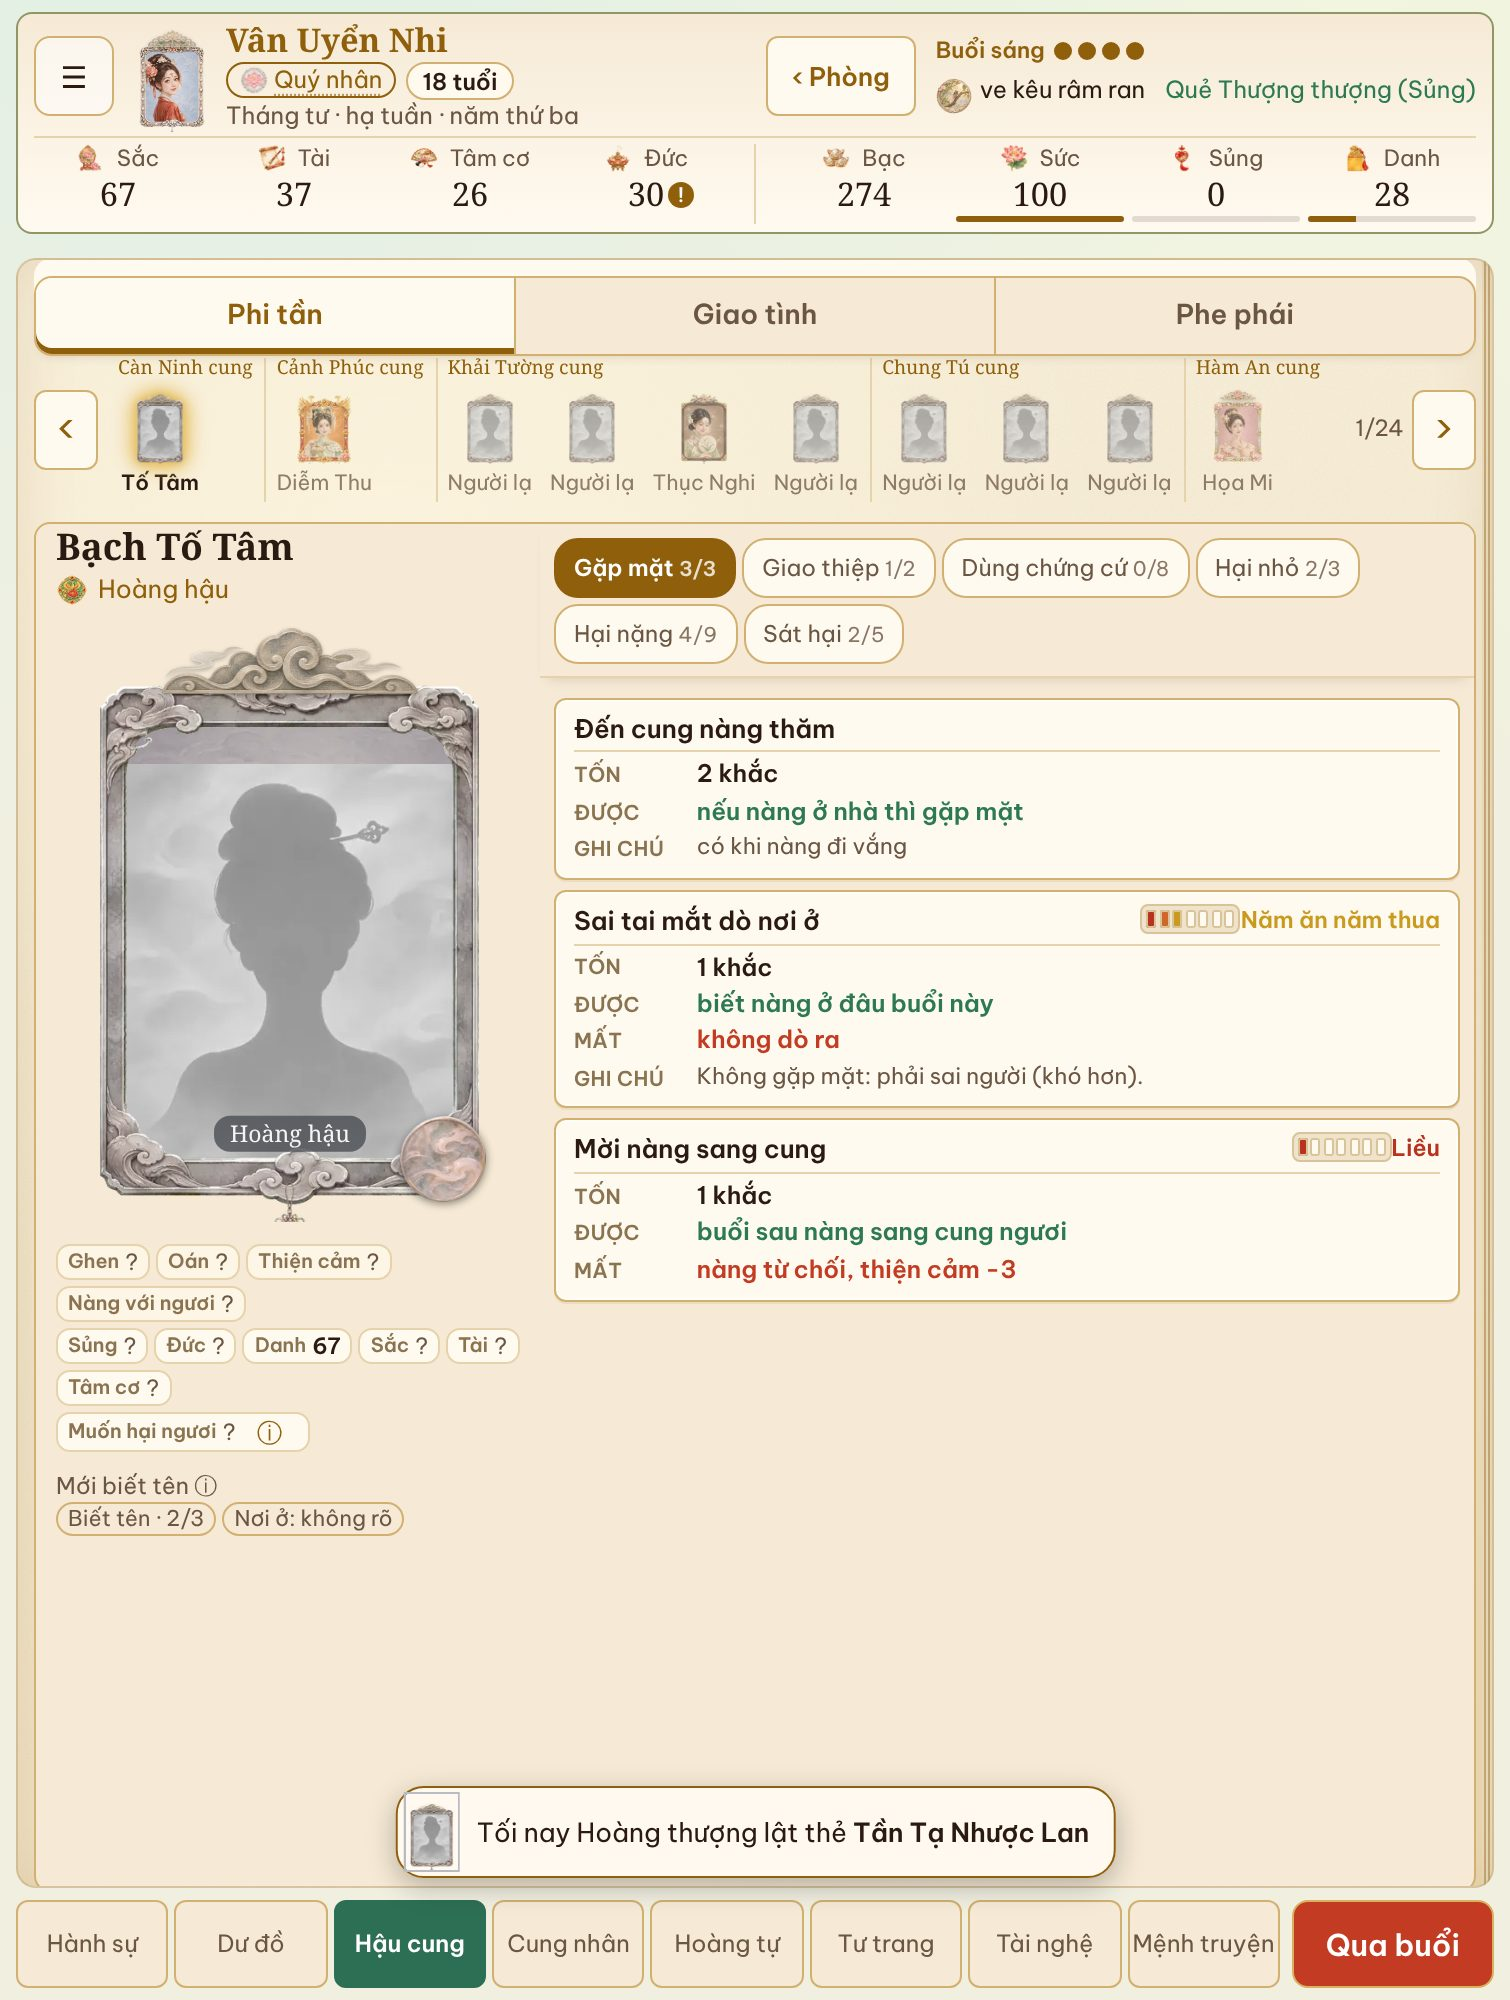
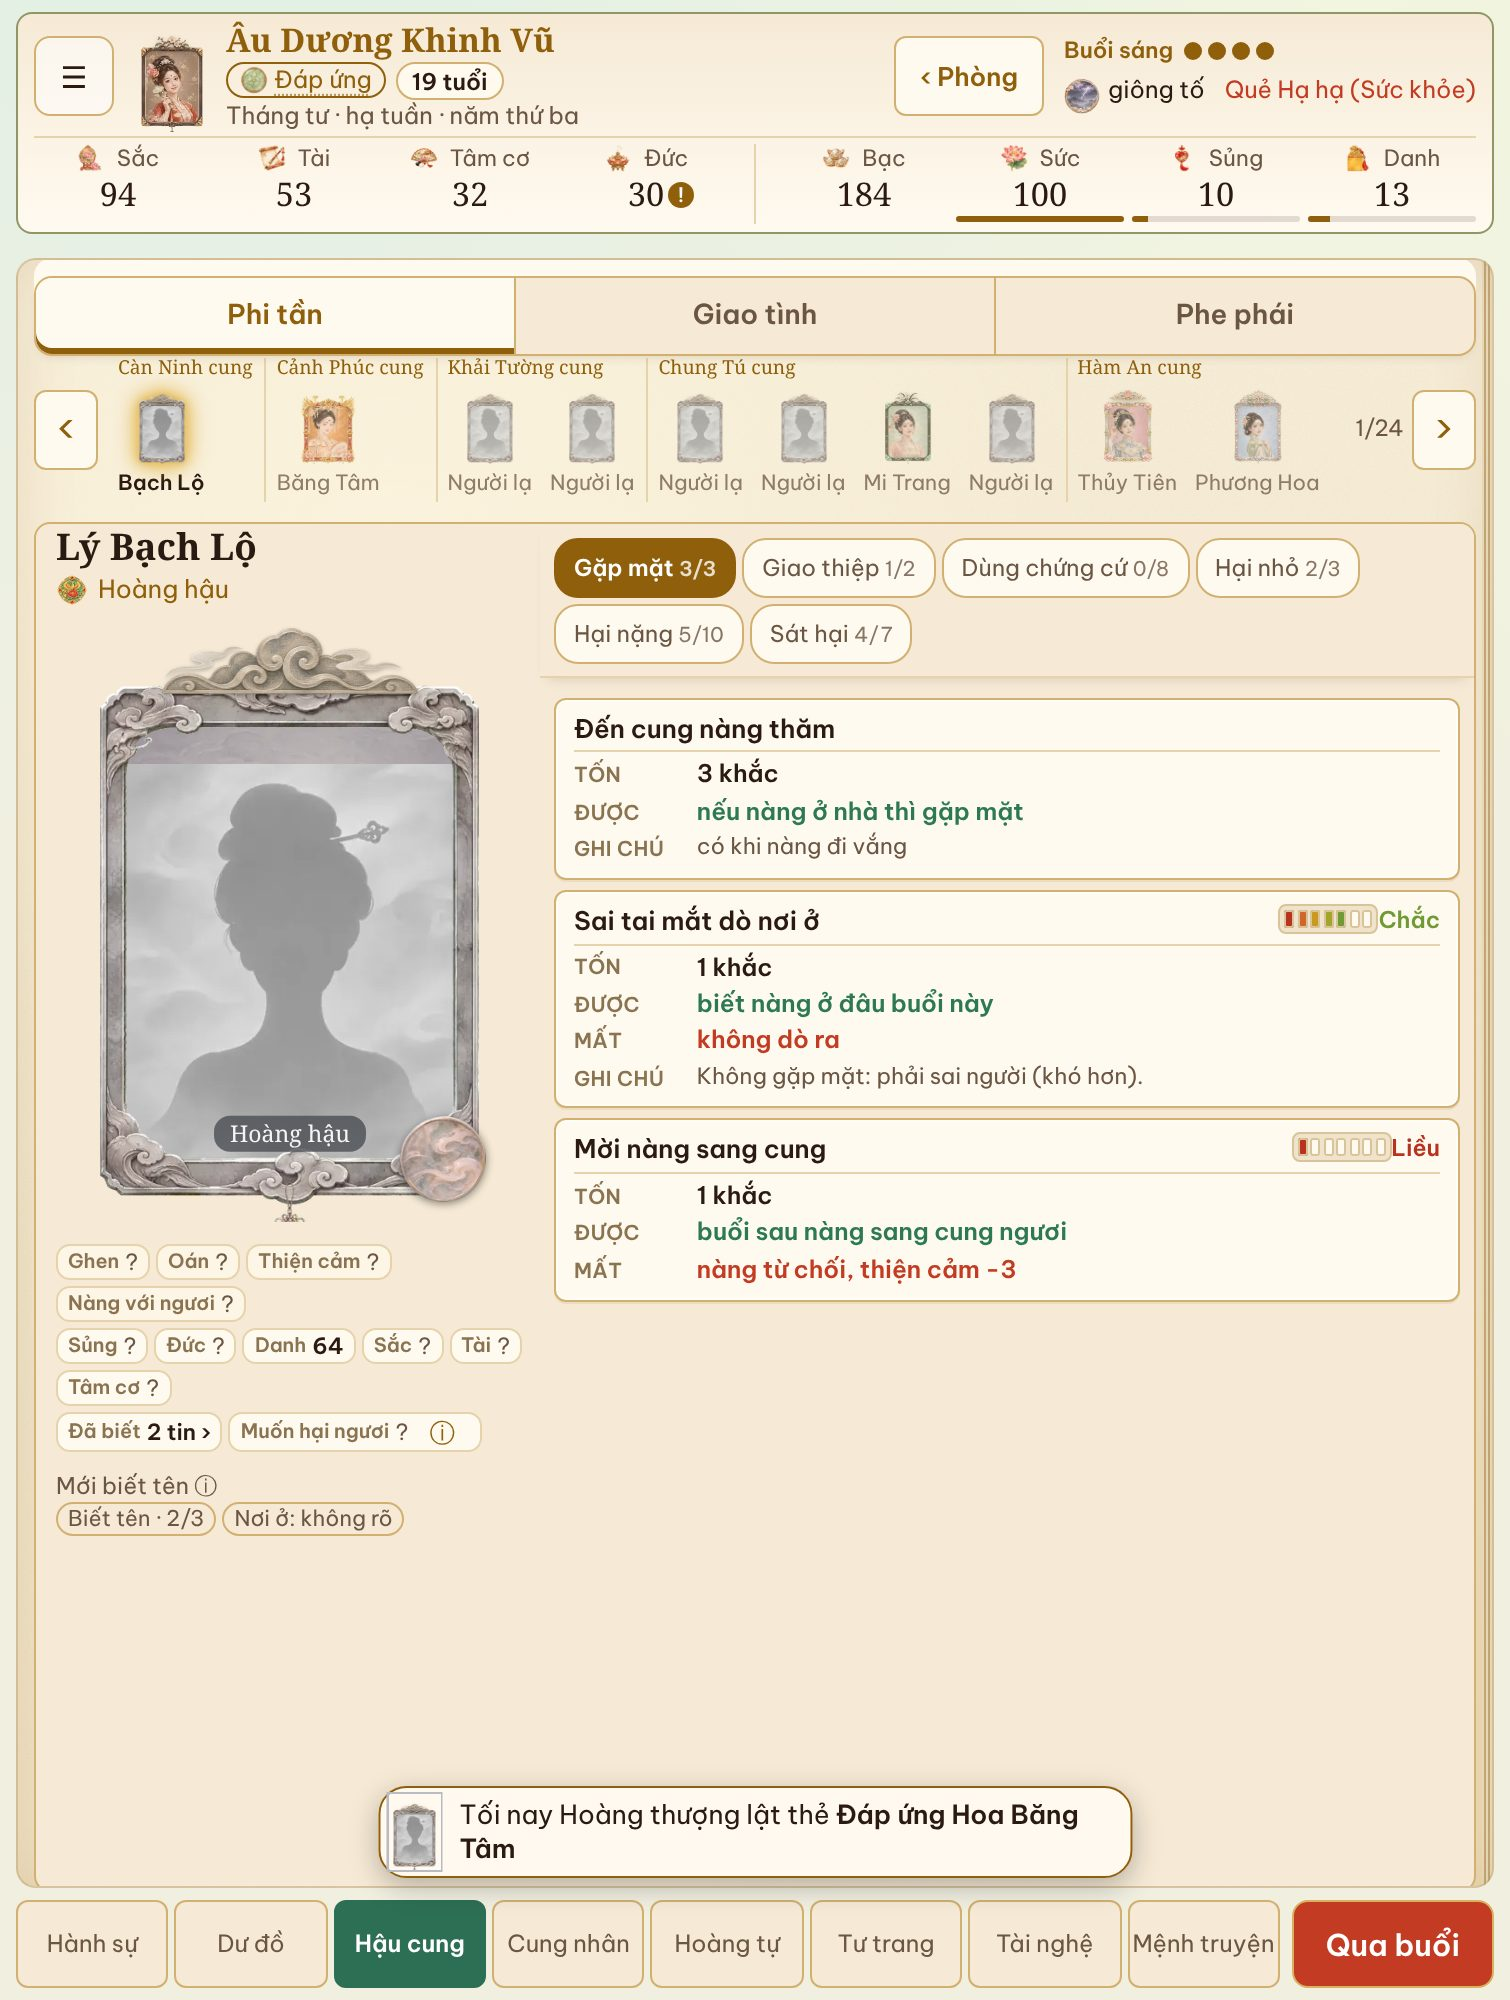
Hết khắc ở một nơi: vẫn tự sang buổi nhưng ngươi Ở LẠI nơi đó (không bị đẩy về nhà/Dư đồ) — buổi mới vào lại chỗ cũ không hỏi cửa, dòng "Sang buổi tối · ngươi vẫn ở Kính sự phòng"; chỉ dời khi có lý do thật (cấm túc, lãnh cung, đêm) kèm dòng lý do. Chạm nơi đang ở trên Dư đồ mở sân khấu nơi đó (Fold
Kiểm: dev/test/place-stay.js (Fold 755x1000, iPad 1180x820), dev/test/court-rules.js.

Claude-Session: https://claude.ai/code/session_01V1ZZH1F24tkuejhCvtXqV8

diff --git a/dev/test/place-stay.js b/dev/test/place-stay.js
@@ -1,0 +1,36 @@
+/* place-stay test (owner 11/15 06:35Z–06:45Z): when the khắc run out at a place the buổi turns over but she STAYS there.
+   A: afternoon, last khắc spent walking to Kính sự phòng (3 people put there) → arrival stage → evening still at Kính sự phòng, note line.
+   B: at Ngự hoa viên, a normal act takes the last khắc → next buổi still at Ngự hoa viên.
+   C: Dư đồ → tap the place she is at → its stage (phone shell room view), "‹ <place>" button label, the button returns to that stage.
+   usage: node dev/test/place-stay.js <url of a build at the site root> <W>x<H>@dpr <outdir> <tag> */
+const {chromium}=require('playwright');
+const [,,URL,SZ,OUT,TAG]=process.argv;const [WH,DPR]=SZ.split('@');const [W,H]=WH.split('x').map(Number);
+(async()=>{const b=await chromium.launch();const ctx=await b.newContext({viewport:{width:W,height:H},hasTouch:true,isMobile:W<1100,deviceScaleFactor:+(DPR||1),reducedMotion:'reduce',serviceWorkers:'block'});
+ const p=await ctx.newPage();p.setDefaultTimeout(300000);const errs=[];p.on('pageerror',e=>errs.push(e.message.slice(0,200)));
+ await p.goto(URL,{waitUntil:'domcontentloaded'});await p.waitForFunction(()=>typeof start==='function'&&typeof showModal==='function');await p.waitForTimeout(2500);
+ const clean=()=>p.evaluate(()=>{['kload','kroul','dawn'].forEach(i=>{const e=document.getElementById(i);if(e)e.remove()})});
+ const shot=async n=>{await clean();for(let t=0;t<3;t++){try{await p.screenshot({path:`${OUT}/${TAG}-${n}.jpg`,type:'jpeg',quality:82,timeout:120000});return}catch(e){await p.waitForTimeout(3000)}}};
+ const st=()=>p.evaluate(()=>({buoi:S.buoi,used,place:S.place,visitK:S.visit&&S.visit.k,people:(S.visit&&S.visit.people||[]).map(x=>x.name||x.kind).slice(0,6),msg:(S.visit&&S.visit.msg||"").replace(/<[^>]+>/g,"").slice(0,160),
+  tab,home:document.querySelector(".game").classList.contains("k3home"),room:(document.getElementById('k3room')||{}).textContent||"",roomHidden:(document.getElementById('k3room')||{}).hidden,modal:!document.getElementById('modal').hidden?document.getElementById('mt').textContent:""}));
+ const R={};
+ await p.evaluate(()=>{try{localStorage.clear()}catch(e){}SLOT=3;document.getElementById('title').hidden=true;for(let i=0;i<60;i++){start();if(!isSrv())break}Q.length=0;document.getElementById('modal').hidden=true;try{NLP=null}catch(e){}render()});
+ await clean();await p.waitForTimeout(1200);
+ /* A */
+ R.A0=await p.evaluate(()=>{S.week=S.week;S.buoi=1;S.place="home";S.visit={k:"home",people:homePeople(),talked:false,tk:{}};S.confined=0;S.out=0;const tc=travel("home","ksp");used=4-tc;
+  const L=liveRivals(false).filter(v=>v.alive&&!v.out&&!v.confined).slice(0,3);L.forEach(v=>S.where[v.id]="ksp");tab="go";render();
+  const a=accessOf(S,"ksp");j77Tap("ksp");return{tc,acc:a.ok,why:a.why||"",card:document.getElementById('mt').textContent,names:L.map(v=>v.name)}});
+ await p.waitForTimeout(1200);await shot('A1-card');
+ await p.evaluate(()=>{if(Q[0]&&Q[0].opts){const i=Q[0].opts.findIndex(o=>o.n==="Đi");if(i>=0)chooseM(i)}});await p.waitForTimeout(500);
+ R.A1=await st();await shot('A2-arrive');
+ await p.waitForTimeout(4500);R.A2=await st();await shot('A3-evening');
+ /* B */
+ await p.evaluate(()=>{Q.length=0;document.getElementById('modal').hidden=true;S.buoi=0;used=0;S.place="home";S.visit={k:"home",people:homePeople(),talked:false,tk:{}};tab="go";render();goTo("vuon")});await p.waitForTimeout(1500);
+ await p.evaluate(()=>{Q.length=0;document.getElementById('modal').hidden=true;render()});
+ R.B0=await st();await p.evaluate(()=>{used=3;spend(1);render()});await p.waitForTimeout(4500);await p.evaluate(()=>{if(Q.length){Q.length=0;document.getElementById('modal').hidden=true;render()}});R.B1=await st();await shot('B-next-buoi');
+ /* C */
+ await p.evaluate(()=>{const b=document.querySelector('#tabs [data-tab="go"]');if(b)b.click();else{tab="go";render()}});await p.waitForTimeout(1500);R.C0=await st();await shot('C0-map');
+ await p.evaluate(()=>{j77Tap(S.place)});await p.waitForTimeout(1500);R.C1=await st();await shot('C1-tap-here');
+ await p.evaluate(()=>{const b=document.querySelector('#tabs [data-tab="act"]');if(b)b.click()});await p.waitForTimeout(1200);R.C2=await st();await shot('C2-panel');
+ await p.evaluate(()=>{const b=document.getElementById('k3room');if(b&&!b.hidden)b.click()});await p.waitForTimeout(1200);R.C3=await st();await shot('C3-back');
+ R.hovf=await p.evaluate(()=>document.documentElement.scrollWidth>innerWidth+1);
+ console.log(JSON.stringify({TAG,R,errs},null,0));await b.close()})().catch(e=>{console.error(e);process.exit(1)});

diff --git a/dev/build/j41.js b/dev/build/j41.js
@@ -61,7 +61,7 @@ document.addEventListener("click",e=>{const s=e.target.closest("[data-acsneak]")
  const i=e.target.closest("[data-acinfo]");if(i){e.preventDefault();e.stopImmediatePropagation();accInfo();return}
  const g=e.target.closest(".agrey");if(g){e.preventDefault();e.stopImmediatePropagation()}},true);
 /* the gate on goTo: barred places are never entered silently; a tap from elsewhere shows the card with the ways in */
-(function(){const g0=goTo;goTo=function(k){if(!S||k===S.place||k==="home")return g0.apply(this,arguments);
+(function(){const g0=goTo;goTo=function(k){if(!S||k===S.place||k==="home"||window.__accStay)return g0.apply(this,arguments);
  const a=accessOf(S,k);if(!a.ok){if(S.place==="home"&&(!S.visit||S.visit.k!=="home"))S.visit={k:"home",people:homePeople(),talked:false,tk:{}};
   if(!window.__accSilent&&!S.dead&&!Q.length&&!S.out&&!S.confined){const st=accState(k);const opts=[];
    if(st.ask&&!st.empAway)opts.push({n:st.ask==="yk"?"Xin yết kiến":"Xin bái kiến",fx:{},x:accAskLine(k),go:()=>setTimeout(()=>accAsk(k),0)});
@@ -72,7 +72,11 @@ document.addEventListener("click",e=>{const s=e.target.closest("[data-acsneak]")
  try{if(k==="lc"&&S.place==="lc"&&prev!=="lc"&&!S.out){apply({danh:-2});log("Bị thấy lui tới Trường Môn viện: Danh -2.");if(S.visit)S.visit.msg=(S.visit.msg?S.visit.msg+" ":"")+"Có người thấy ngươi ở lãnh cung: Danh -2."}}catch(e){}
  return r}})();
 /* the new buổi re-enters her place quietly (a closed place sends her home without a card) */
-(function(){const n0=nextBuoi;nextBuoi=function(){window.__accSilent=1;try{return n0.apply(this,arguments)}finally{window.__accSilent=0}}})();
+/* owner 11/15 06:35Z: the new buổi starts AT her place (S.place stays) with the new occupants — the gate is not asked again (she is
+   already inside); only a real reason moves her (night / week end, cấm túc, lãnh cung, a summons), and then a line says why */
+(function(){const n0=nextBuoi;nextBuoi=function(){window.__accSilent=1;window.__accStay=1;const k=S&&S.place,b=S&&(S.buoi||0);try{return n0.apply(this,arguments)}finally{window.__accSilent=0;window.__accStay=0;
+ try{if(S&&!S.dead&&k&&k!=="home"&&b<2&&(S.buoi||0)===b+1&&S.place!==k&&S.visit){const why=S.out?"ngươi bị đày vào lãnh cung":S.confined?"ngươi đang bị cấm túc":"";
+  if(why){const nm=typeof accName==="function"?accName(k):k;S.visit.msg=(S.visit.msg?S.visit.msg+" ":"")+`Không ở lại ${nm} được: ${why}.`;log(`Rời ${nm}: ${why}.`);if(typeof render==="function")render()}}}catch(e){}}}})();
 /* a summons from the Thái hậu is a pass to Đức Thọ cung this buổi */
 (function(){const c0=chooseM;chooseM=function(i){try{const m=Q[0];if(m&&/triệu/i.test(m.t||"")&&m.opts&&m.opts[i]&&/^Đến/.test(m.opts[i].n)){if(/Thái hậu/.test(m.t))accGrant(S,"tn");if(/Hoàng thượng/.test(m.t)){accGrant(S,"dtd");accGrant(S,"thu")}if(/Hoàng hậu/.test(m.t))accGrant(S,"kn")}}catch(e){}return c0.apply(this,arguments)}})();
 /* NPC movement keeps the same rule: a consort barred from a place stays in her own palace */

diff --git a/dev/build/j77.js b/dev/build/j77.js
@@ -62,7 +62,7 @@ function j77Card(k,empty){if(!S||S.dead||Q.length)return;
  showModal()}
 /* a walk that uses the last khắc: say so plainly, then go (she sees who is there; next buổi she starts there) */
 function j77LastWalk(k,tc){let n=0;try{n=countAt(k)}catch(e){}
- Q.push({t:accName(k),h:`<p>Đường đi ${tc} khắc · đến nơi là hết buổi, chỉ kịp xem ai ở đó.</p>${n?`<p class="past">Có ${n} bóng người ở đó.</p>`:""}<p class="past">Buổi sau ngươi bắt đầu ở đó.</p>`,
+ Q.push({t:accName(k),h:`<p>Đường đi ${tc} khắc · đến nơi là hết khắc, sang buổi sau.</p>${n?`<p class="past">Có ${n} bóng người ở đó.</p>`:""}<p class="past">Ngươi ở lại đó: buổi sau bắt đầu ngay tại chỗ, thấy ai ở đó.</p>`,
   opts:[{n:"Đi",fx:{},x:`Chắc chắn · tốn: ${tc} khắc · thành: đến nơi, thấy ai ở đó; người ở đó có thể đến gần`,go:()=>setTimeout(()=>{if(S&&!S.dead&&!Q.length)goTo(k)},0)},{n:"Thôi",fx:{},x:""}]});showModal()}
 /* one tap rule for the map and the list */
 function j77Tap(k,empty){if(!S||S.dead||Q.length)return;if(empty||!k)return j77Card(k,empty||"Cung trống");
@@ -205,3 +205,9 @@ accInfo=function(){if(!S||Q.length)return;const R=n=>`<b>${n}</b>`;
  for(const v of rivals){if(!v.alive||v.out)continue;const k=W[v.id];if(!k||k==="home"||k[0]!=="r"||palaceOf(v)===k)continue;const h=accHost(k);
   if(!h||h===v||!h.alive||h.out||whereOf(h)!==k||rkOf(h)-rkOf(v)<C.rankGap)continue;
   if(roll(C.npcGreet))relAdd(v,h,C.okAff);else relAdd(v,h,accSkipAff(h,v))}}catch(e){}return r}})();
+
+/* owner 11/15 06:45Z: when the khắc run out the buổi still turns over by itself, but she STAYS where she is (j41 nextBuoi keeps
+   S.place): the stage of that place shows who is there in the new buổi, with one line "Sang buổi tối · ngươi vẫn ở Kính sự phòng" */
+(function(){const n0=nextBuoi;nextBuoi=function(){const k=S&&S.place,b=S?(S.buoi||0):0;const r=n0.apply(this,arguments);
+ try{if(S&&!S.dead&&!S.out&&k&&k!=="home"&&b<2&&(S.buoi||0)===b+1&&S.place===k&&S.visit&&S.visit.k===k){const nm=typeof accName==="function"?accName(k):k;
+  const line=`Sang ${String(BUOI[S.buoi]).toLowerCase()} · ngươi vẫn ở ${nm}.`;if(!(S.visit.msg||"").includes(line)){S.visit.msg=line+(S.visit.msg?" "+S.visit.msg:"");render()}}}catch(e){}return r}})();

diff --git a/dev/build/jk3.js b/dev/build/jk3.js
@@ -193,6 +193,16 @@ function k3Shell(){try{const gm=document.querySelector(".game");if(!gm)return;tr
 window.k3Shell=k3Shell;
 function k3Home(){K3SH.home=true;try{if(typeof popIdx!=="undefined"&&popIdx!=null){popIdx=null;if(typeof renderStage==="function")renderStage()}}catch(e){}const pw=$$("popw");if(pw&&pw.children.length)pw.innerHTML="";k3Shell();setTimeout(()=>{try{window.j59lay&&j59lay();typeof kitFloorFit==="function"&&kitFloorFit()}catch(e){}},30)}
 window.k3Home=k3Home;
+/* owner 11/15 06:38Z: tapping the place she is AT on Dư đồ opens that place's stage (scene + the people there), like arriving — on the
+   phone shell that is the room view, not the Hành sự panel; arriving from the map lands on the stage too. "‹ Phòng" says where she is
+   ("‹ Kính sự phòng") and returns to that stage (her current place, not home). */
+function k3ShowPlace(){window.__k3quiet=1;clearTimeout(window.__k3qt);window.__k3qt=setTimeout(()=>{window.__k3quiet=0},450);K3SH.home=true;k3Home()}
+function k3PlaceName(){try{if(!S||!S.place||S.place==="home")return"Phòng";return typeof accName==="function"?accName(S.place):(placeOf(S.place).n||"Phòng")}catch(e){return"Phòng"}}
+(function(){if(typeof j77Tap==="function"){const t0=j77Tap;j77Tap=function(k){const here=!!(S&&!S.dead&&!Q.length&&k&&S.place===k);const r=t0.apply(this,arguments);
+  if(here&&k3Phone())k3ShowPlace();return r}}
+ const g0=goTo;goTo=function(k){const fromMap=typeof tab!=="undefined"&&tab==="go";const p0=S&&S.place;const r=g0.apply(this,arguments);
+  try{if(fromMap&&k3Phone()&&S&&!S.dead&&S.place===k&&p0!==k&&!Q.length)k3ShowPlace()}catch(e){}return r};
+ const s0=k3Shell;k3Shell=function(){const r=s0.apply(this,arguments);try{const rb=$$("k3room");if(rb){const t="\u2039 "+k3PlaceName();if(rb.textContent!==t)rb.textContent=t;rb.title=S&&S.place&&S.place!=="home"?"Về "+k3PlaceName():"Về phòng"}}catch(e){}return r};window.k3Shell=k3Shell})();
 document.addEventListener("click",e=>{if(!k3Phone())return;const b=e.target.closest&&e.target.closest("#tabs [data-tab], #tabs [data-kg]");
  if(b){const active=b.classList.contains("on")||b.classList.contains("kgon")||b.getAttribute("aria-selected")==="true";
   if(!K3SH.home&&active&&!b.classList.contains("kghide")){e.preventDefault();e.stopPropagation();k3Home();return}
